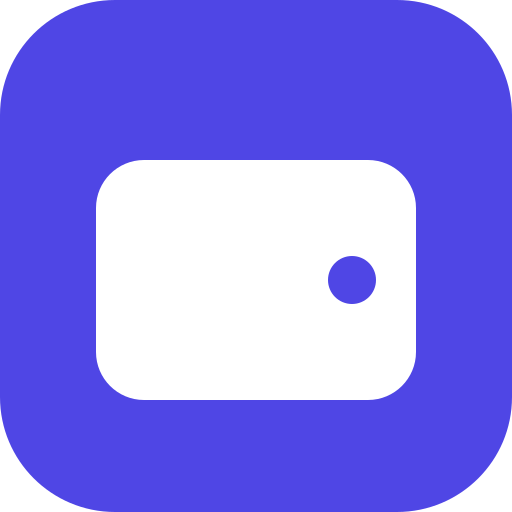
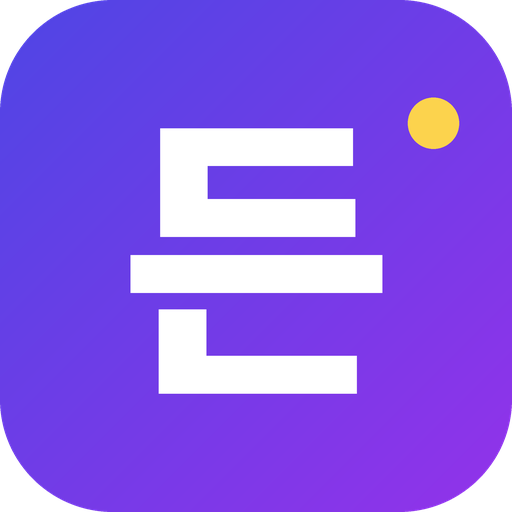
v9.0: 앱 이름 '든든' + 새 아이콘 (#58)
Claude-Session: https://claude.ai/code/session_01PNPrdFGUuSpMegbgNQuk3L

diff --git a/index.html b/index.html
@@ -10,7 +10,7 @@
   <meta name="mobile-web-app-capable" content="yes">
   <meta name="apple-mobile-web-app-capable" content="yes">
   <meta name="apple-mobile-web-app-status-bar-style" content="default">
-  <meta name="apple-mobile-web-app-title" content="아르곤 자산관리">
+  <meta name="apple-mobile-web-app-title" content="든든">
   <script src="pwa.js" defer></script>
   <script>
     // 폰(또는 설치한 앱)에서 새로 열면 ☀ 오늘 화면부터 (오늘 화면에서 끌 수 있음). 메뉴로 들어온 건 그대로.
@@ -22,7 +22,7 @@
     } catch (e) {}
   </script>
   <script src="sync.js" defer></script>
-  <title>아르곤 자산관리 Pro v8.9</title>
+  <title>든든 · 가계부 v9.0</title>
   <script src="https://cdn.tailwindcss.com"></script>
   <script src="https://cdn.jsdelivr.net/npm/chart.js"></script>
   <link rel="stylesheet" href="https://cdn.jsdelivr.net/gh/orioncactus/pretendard/dist/web/static/pretendard.css">
@@ -69,7 +69,7 @@
 <body class="text-slate-800 select-none">
   <div id="sideNavBackdrop" onclick="closeSideNav()" class="fixed inset-0 bg-slate-900/40 z-40"></div>
   <nav id="sideNav" aria-label="페이지 이동" class="fixed top-0 left-0 bottom-0 w-64 max-w-[80vw] bg-white border-r border-slate-200 z-50 p-4 flex flex-col gap-1 shadow-xl" style="padding-top: max(1rem, env(safe-area-inset-top));">
-    <div class="flex items-center justify-between mb-3"><p class="text-sm font-extrabold text-slate-900">💎 아르곤 자산관리</p><button type="button" onclick="closeSideNav()" class="text-slate-400 text-lg font-bold px-2" aria-label="메뉴 닫기">✕</button></div>
+    <div class="flex items-center justify-between mb-3"><p class="text-sm font-extrabold text-slate-900">💛 든든</p><button type="button" onclick="closeSideNav()" class="text-slate-400 text-lg font-bold px-2" aria-label="메뉴 닫기">✕</button></div>
     <a href="./today.html" class="nav-item flex items-center gap-2 px-3 py-2.5 rounded-xl text-sm font-bold text-slate-700 hover:bg-slate-100">☀ <span>오늘</span></a>
     <a href="./" class="nav-item active flex items-center gap-2 px-3 py-2.5 rounded-xl text-sm font-bold">📒 <span>가계부</span></a>
     <a href="./tax.html" class="nav-item flex items-center gap-2 px-3 py-2.5 rounded-xl text-sm font-bold text-slate-700 hover:bg-slate-100">🧾 <span>연말정산</span></a>
@@ -115,7 +115,7 @@
               <p class="px-2.5 py-1 text-[10px] font-extrabold text-slate-400 uppercase">테마 및 가이드</p>
               <button type="button" onclick="toggleDarkMode()" class="w-full text-left px-3 py-2 rounded-xl text-xs font-bold text-slate-700 dark:text-slate-200 hover:bg-indigo-50 dark:hover:bg-slate-700 flex items-center justify-between"><span id="darkModeMenuText">🌙 다크 모드 켜기</span><span class="text-[10px] bg-slate-200 dark:bg-slate-700 px-1.5 py-0.5 rounded font-extrabold">Theme</span></button>
               <button type="button" onclick="openGalaxyAutoModal()" class="w-full text-left px-3 py-2 rounded-xl text-xs font-semibold text-slate-600 dark:text-slate-300 hover:bg-slate-100 dark:hover:bg-slate-700 flex items-center justify-between"><span>🤖 갤럭시 문자 자동화 가이드</span><span class="text-[10px] text-blue-600 font-bold">TIP</span></button>
-              <button type="button" onclick="openReleaseModal()" class="w-full text-left px-3 py-2 rounded-xl text-xs font-semibold text-slate-600 dark:text-slate-300 hover:bg-slate-100 dark:hover:bg-slate-700 flex items-center justify-between"><span>🆕 버전별 업데이트 노트</span><span class="text-[10px] bg-purple-100 text-purple-700 px-1.5 py-0.5 rounded-full font-bold">v8.9</span></button>
+              <button type="button" onclick="openReleaseModal()" class="w-full text-left px-3 py-2 rounded-xl text-xs font-semibold text-slate-600 dark:text-slate-300 hover:bg-slate-100 dark:hover:bg-slate-700 flex items-center justify-between"><span>🆕 버전별 업데이트 노트</span><span class="text-[10px] bg-purple-100 text-purple-700 px-1.5 py-0.5 rounded-full font-bold">v9.0</span></button>
             </div>
             <div class="px-2 pt-1.5 pb-0.5">
               <button type="button" onclick="resetData()" class="w-full text-left px-3 py-2 rounded-xl text-xs font-bold text-rose-600 hover:bg-rose-50 flex items-center justify-between"><span>🗑 전체 가계부 초기화</span><span class="text-[10px] text-rose-400">주의</span></button>
@@ -445,7 +445,7 @@
     <div class="bg-white dark:bg-slate-800 rounded-2xl max-w-lg w-full p-5 sm:p-6 shadow-xl space-y-4 max-h-[90vh] flex flex-col">
       <div class="flex justify-between items-center border-b border-slate-100 pb-3"><h3 class="text-base font-extrabold">🚀 버전별 주요 업데이트 노트</h3><button onclick="closeReleaseModal()" class="text-slate-400 text-lg font-bold px-2">✕</button></div>
       <div id="releaseNotesContainer" class="space-y-4 overflow-y-auto pr-1 flex-1"></div>
-      <div class="pt-3 border-t border-slate-100 flex justify-between items-center"><span class="text-xs text-slate-400">현재 버전: <b class="text-indigo-600">Pro v8.9</b></span><button onclick="closeReleaseModal()" class="px-5 py-2 rounded-xl bg-indigo-600 text-white text-xs font-bold">확인했어요!</button></div>
+      <div class="pt-3 border-t border-slate-100 flex justify-between items-center"><span class="text-xs text-slate-400">현재 버전: <b class="text-indigo-600">든든 v9.0</b></span><button onclick="closeReleaseModal()" class="px-5 py-2 rounded-xl bg-indigo-600 text-white text-xs font-bold">확인했어요!</button></div>
     </div>
   </div>
 
@@ -486,9 +486,14 @@
   <div id="toast" class="fixed bottom-6 left-1/2 -translate-x-1/2 bg-slate-900 text-white text-xs md:text-sm font-bold px-5 py-3 rounded-full shadow-lg opacity-0 pointer-events-none transition-all duration-300 z-50 whitespace-nowrap">알림</div>
 
   <script>
-    const APP_VERSION = '8.9';
+    const APP_VERSION = '9.0';
     const releaseNotesData = [
-      { version: 'Pro v8.9', date: '2026.11.23 (최신)', badge: '메뉴 정리', isLatest: true, items: [
+      { version: 'v9.0', date: '2026.11.23 (최신)', badge: '든든 💛', isLatest: true, items: [
+        '💛 앱 이름이 <b>든든</b>으로 바뀌었어요 — 돈·출퇴근·점심·D-Day·영어까지 하루를 든든하게',
+        '🎨 새 앱 아이콘 ("든"). 홈 화면 아이콘은 안드로이드는 며칠 안에 자동으로, 아이폰은 다시 추가하면 바뀌어요',
+        '💾 저장된 데이터·동기화는 그대로예요'
+      ] },
+      { version: 'Pro v8.9', date: '2026.11.23', badge: '메뉴 정리', isLatest: false, items: [
         '📒 가계부 화면 제목을 "가계부"로, 위쪽 버전 배지는 정리',
         '🆕 <b>버전·업데이트 노트</b>는 어느 화면에서든 왼쪽 메뉴 맨 아래에서 (새 버전이면 노란 점)'
       ] },
@@ -1356,7 +1361,7 @@
     
     function downloadBackupFile() { 
       const b = new Blob([JSON.stringify({ app: 'ArgonLedgerPro', version: APP_VERSION, categoryBudgets, fixedExpenses, smsTemplates, cardPerfs, watchlist: readWatchlist(), accounts: readLS('argon_accounts_v1'), netWorth: readLS('argon_networth_v1'), goals: readLS('argon_goals_v1'), transactions, changeLogs }, null, 2)], { type: 'application/json' }); 
-      const a = document.createElement('a'); a.href = URL.createObjectURL(b); a.download = `아르곤자산관리_백업_${today}.json`; a.click(); 
+      const a = document.createElement('a'); a.href = URL.createObjectURL(b); a.download = `든든_백업_${today}.json`; a.click(); 
     }
     
     function handleBackupFileUpload(e) { const f = e.target.files[0]; if (!f) return; const r = new FileReader(); r.onload = ev => applyBackupData(ev.target.result); r.readAsText(f); }
@@ -1572,7 +1577,7 @@
     function clearCategoryFilter() { document.getElementById('categoryFilter').value = 'ALL'; render(); }
     function clearListFilters() { document.getElementById('categoryFilter').value = 'ALL'; document.getElementById('cardFilter').value = 'ALL'; document.getElementById('searchInput').value = ''; render(); }
     function resetData() { closeHeaderMenu(); if (confirm('모든 거래 내역을 초기화하시겠습니까?')) { transactions = []; saveAndRender(); } }
-    function exportCSV() { closeHeaderMenu(); if (!transactions.length) return alert('내역이 없습니다.'); let c = '\uFEFF날짜,구분,카테고리,결제수단,카드사,사용처,내용,금액\n'; transactions.forEach(t => c += `${t.date},${t.type === 'income' ? '수입' : '지출'},${t.category},${t.method},${t.cardCompany},"${t.merchant}","${t.memo}",${t.amount}\n`); const a = document.createElement('a'); a.href = URL.createObjectURL(new Blob([c], { type: 'text/csv;charset=utf-8;' })); a.download = `아르곤자산관리_가계부_${document.getElementById('monthFilter').value}.csv`; a.click(); }
+    function exportCSV() { closeHeaderMenu(); if (!transactions.length) return alert('내역이 없습니다.'); let c = '\uFEFF날짜,구분,카테고리,결제수단,카드사,사용처,내용,금액\n'; transactions.forEach(t => c += `${t.date},${t.type === 'income' ? '수입' : '지출'},${t.category},${t.method},${t.cardCompany},"${t.merchant}","${t.memo}",${t.amount}\n`); const a = document.createElement('a'); a.href = URL.createObjectURL(new Blob([c], { type: 'text/csv;charset=utf-8;' })); a.download = `든든_가계부_${document.getElementById('monthFilter').value}.csv`; a.click(); }
 
     document.getElementById('monthFilter').addEventListener('change', () => { exitEditMode(); render(); });
     document.getElementById('txDate').value = today; document.getElementById('monthFilter').value = currentYearMonth;

diff --git a/subway.html b/subway.html
@@ -10,12 +10,12 @@
   <meta name="mobile-web-app-capable" content="yes">
   <meta name="apple-mobile-web-app-capable" content="yes">
   <meta name="apple-mobile-web-app-status-bar-style" content="default">
-  <meta name="apple-mobile-web-app-title" content="아르곤 자산관리">
+  <meta name="apple-mobile-web-app-title" content="든든">
   <script src="pwa.js" defer></script>
   <script src="sync.js" defer></script>
   <script src="tt.js"></script>
   <script src="commute.js"></script>
-  <title>지하철 · 아르곤 자산관리</title>
+  <title>지하철 · 든든</title>
   <script>
     // 가계부와 같은 다크 모드 설정을 첫 화면부터 적용
     try { if (localStorage.getItem('argon_dark_mode') === 'true') document.documentElement.classList.add('dark'); } catch (e) {}
@@ -86,7 +86,7 @@
   <!-- 사이드 메뉴 (가계부와 동일) -->
   <div id="sideNavBackdrop" onclick="closeSideNav()" class="fixed inset-0 bg-slate-900/40 z-40"></div>
   <nav id="sideNav" aria-label="페이지 이동" class="fixed top-0 left-0 bottom-0 w-64 max-w-[80vw] bg-white border-r border-slate-200 z-50 p-4 flex flex-col gap-1 shadow-xl" style="padding-top: max(1rem, env(safe-area-inset-top));">
-    <div class="flex items-center justify-between mb-3"><p class="text-sm font-extrabold text-slate-900">💎 아르곤 자산관리</p><button type="button" onclick="closeSideNav()" class="text-slate-400 text-lg font-bold px-2" aria-label="메뉴 닫기">✕</button></div>
+    <div class="flex items-center justify-between mb-3"><p class="text-sm font-extrabold text-slate-900">💛 든든</p><button type="button" onclick="closeSideNav()" class="text-slate-400 text-lg font-bold px-2" aria-label="메뉴 닫기">✕</button></div>
     <a href="./today.html" class="nav-item flex items-center gap-2 px-3 py-2.5 rounded-xl text-sm font-bold text-slate-700 hover:bg-slate-100">☀ <span>오늘</span></a>
     <a href="./" class="nav-item flex items-center gap-2 px-3 py-2.5 rounded-xl text-sm font-bold text-slate-700 hover:bg-slate-100">📒 <span>가계부</span></a>
     <a href="./tax.html" class="nav-item flex items-center gap-2 px-3 py-2.5 rounded-xl text-sm font-bold text-slate-700 hover:bg-slate-100">🧾 <span>연말정산</span></a>

diff --git a/english.html b/english.html
@@ -10,10 +10,10 @@
   <meta name="mobile-web-app-capable" content="yes">
   <meta name="apple-mobile-web-app-capable" content="yes">
   <meta name="apple-mobile-web-app-status-bar-style" content="default">
-  <meta name="apple-mobile-web-app-title" content="아르곤 자산관리">
+  <meta name="apple-mobile-web-app-title" content="든든">
   <script src="pwa.js" defer></script>
   <script src="sync.js" defer></script>
-  <title>여행 영어 · 아르곤 자산관리</title>
+  <title>여행 영어 · 든든</title>
   <script>
     // 가계부와 같은 다크 모드 설정을 첫 화면부터 적용
     try { if (localStorage.getItem('argon_dark_mode') === 'true') document.documentElement.classList.add('dark'); } catch (e) {}
@@ -83,7 +83,7 @@
   <!-- 사이드 메뉴 (가계부와 동일) -->
   <div id="sideNavBackdrop" onclick="closeSideNav()" class="fixed inset-0 bg-slate-900/40 z-40"></div>
   <nav id="sideNav" aria-label="페이지 이동" class="fixed top-0 left-0 bottom-0 w-64 max-w-[80vw] bg-white border-r border-slate-200 z-50 p-4 flex flex-col gap-1 shadow-xl" style="padding-top: max(1rem, env(safe-area-inset-top));">
-    <div class="flex items-center justify-between mb-3"><p class="text-sm font-extrabold text-slate-900">💎 아르곤 자산관리</p><button type="button" onclick="closeSideNav()" class="text-slate-400 text-lg font-bold px-2" aria-label="메뉴 닫기">✕</button></div>
+    <div class="flex items-center justify-between mb-3"><p class="text-sm font-extrabold text-slate-900">💛 든든</p><button type="button" onclick="closeSideNav()" class="text-slate-400 text-lg font-bold px-2" aria-label="메뉴 닫기">✕</button></div>
     <a href="./today.html" class="nav-item flex items-center gap-2 px-3 py-2.5 rounded-xl text-sm font-bold text-slate-700 hover:bg-slate-100">☀ <span>오늘</span></a>
     <a href="./" class="nav-item flex items-center gap-2 px-3 py-2.5 rounded-xl text-sm font-bold text-slate-700 hover:bg-slate-100">📒 <span>가계부</span></a>
     <a href="./tax.html" class="nav-item flex items-center gap-2 px-3 py-2.5 rounded-xl text-sm font-bold text-slate-700 hover:bg-slate-100">🧾 <span>연말정산</span></a>

diff --git a/lotto.html b/lotto.html
@@ -10,10 +10,10 @@
   <meta name="mobile-web-app-capable" content="yes">
   <meta name="apple-mobile-web-app-capable" content="yes">
   <meta name="apple-mobile-web-app-status-bar-style" content="default">
-  <meta name="apple-mobile-web-app-title" content="아르곤 자산관리">
+  <meta name="apple-mobile-web-app-title" content="든든">
   <script src="pwa.js" defer></script>
   <script src="sync.js" defer></script>
-  <title>로또 번호 · 아르곤 자산관리</title>
+  <title>로또 번호 · 든든</title>
   <script>
     // 가계부와 같은 다크 모드 설정을 첫 화면부터 적용
     try { if (localStorage.getItem('argon_dark_mode') === 'true') document.documentElement.classList.add('dark'); } catch (e) {}
@@ -91,7 +91,7 @@
   <!-- 사이드 메뉴 (가계부와 동일) -->
   <div id="sideNavBackdrop" onclick="closeSideNav()" class="fixed inset-0 bg-slate-900/40 z-40"></div>
   <nav id="sideNav" aria-label="페이지 이동" class="fixed top-0 left-0 bottom-0 w-64 max-w-[80vw] bg-white border-r border-slate-200 z-50 p-4 flex flex-col gap-1 shadow-xl" style="padding-top: max(1rem, env(safe-area-inset-top));">
-    <div class="flex items-center justify-between mb-3"><p class="text-sm font-extrabold text-slate-900">💎 아르곤 자산관리</p><button type="button" onclick="closeSideNav()" class="text-slate-400 text-lg font-bold px-2" aria-label="메뉴 닫기">✕</button></div>
+    <div class="flex items-center justify-between mb-3"><p class="text-sm font-extrabold text-slate-900">💛 든든</p><button type="button" onclick="closeSideNav()" class="text-slate-400 text-lg font-bold px-2" aria-label="메뉴 닫기">✕</button></div>
     <a href="./today.html" class="nav-item flex items-center gap-2 px-3 py-2.5 rounded-xl text-sm font-bold text-slate-700 hover:bg-slate-100">☀ <span>오늘</span></a>
     <a href="./" class="nav-item flex items-center gap-2 px-3 py-2.5 rounded-xl text-sm font-bold text-slate-700 hover:bg-slate-100">📒 <span>가계부</span></a>
     <a href="./tax.html" class="nav-item flex items-center gap-2 px-3 py-2.5 rounded-xl text-sm font-bold text-slate-700 hover:bg-slate-100">🧾 <span>연말정산</span></a>

diff --git a/lunch.html b/lunch.html
@@ -10,10 +10,10 @@
   <meta name="mobile-web-app-capable" content="yes">
   <meta name="apple-mobile-web-app-capable" content="yes">
   <meta name="apple-mobile-web-app-status-bar-style" content="default">
-  <meta name="apple-mobile-web-app-title" content="아르곤 자산관리">
+  <meta name="apple-mobile-web-app-title" content="든든">
   <script src="pwa.js" defer></script>
   <script src="sync.js" defer></script>
-  <title>점심 룰렛 · 아르곤 자산관리</title>
+  <title>점심 룰렛 · 든든</title>
   <script>
     // 가계부와 같은 다크 모드 설정을 첫 화면부터 적용
     try { if (localStorage.getItem('argon_dark_mode') === 'true') document.documentElement.classList.add('dark'); } catch (e) {}
@@ -83,7 +83,7 @@
   <!-- 사이드 메뉴 (가계부와 동일) -->
   <div id="sideNavBackdrop" onclick="closeSideNav()" class="fixed inset-0 bg-slate-900/40 z-40"></div>
   <nav id="sideNav" aria-label="페이지 이동" class="fixed top-0 left-0 bottom-0 w-64 max-w-[80vw] bg-white border-r border-slate-200 z-50 p-4 flex flex-col gap-1 shadow-xl" style="padding-top: max(1rem, env(safe-area-inset-top));">
-    <div class="flex items-center justify-between mb-3"><p class="text-sm font-extrabold text-slate-900">💎 아르곤 자산관리</p><button type="button" onclick="closeSideNav()" class="text-slate-400 text-lg font-bold px-2" aria-label="메뉴 닫기">✕</button></div>
+    <div class="flex items-center justify-between mb-3"><p class="text-sm font-extrabold text-slate-900">💛 든든</p><button type="button" onclick="closeSideNav()" class="text-slate-400 text-lg font-bold px-2" aria-label="메뉴 닫기">✕</button></div>
     <a href="./today.html" class="nav-item flex items-center gap-2 px-3 py-2.5 rounded-xl text-sm font-bold text-slate-700 hover:bg-slate-100">☀ <span>오늘</span></a>
     <a href="./" class="nav-item flex items-center gap-2 px-3 py-2.5 rounded-xl text-sm font-bold text-slate-700 hover:bg-slate-100">📒 <span>가계부</span></a>
     <a href="./tax.html" class="nav-item flex items-center gap-2 px-3 py-2.5 rounded-xl text-sm font-bold text-slate-700 hover:bg-slate-100">🧾 <span>연말정산</span></a>

diff --git a/stocks.html b/stocks.html
@@ -10,10 +10,10 @@
   <meta name="mobile-web-app-capable" content="yes">
   <meta name="apple-mobile-web-app-capable" content="yes">
   <meta name="apple-mobile-web-app-status-bar-style" content="default">
-  <meta name="apple-mobile-web-app-title" content="아르곤 자산관리">
+  <meta name="apple-mobile-web-app-title" content="든든">
   <script src="pwa.js" defer></script>
   <script src="sync.js" defer></script>
-  <title>주식 현황 · 아르곤 자산관리</title>
+  <title>주식 현황 · 든든</title>
   <script>
     // 가계부와 같은 다크 모드 설정을 첫 화면부터 적용
     try { if (localStorage.getItem('argon_dark_mode') === 'true') document.documentElement.classList.add('dark'); } catch (e) {}
@@ -82,7 +82,7 @@
   <!-- 사이드 메뉴 (가계부와 동일) -->
   <div id="sideNavBackdrop" onclick="closeSideNav()" class="fixed inset-0 bg-slate-900/40 z-40"></div>
   <nav id="sideNav" aria-label="페이지 이동" class="fixed top-0 left-0 bottom-0 w-64 max-w-[80vw] bg-white border-r border-slate-200 z-50 p-4 flex flex-col gap-1 shadow-xl" style="padding-top: max(1rem, env(safe-area-inset-top));">
-    <div class="flex items-center justify-between mb-3"><p class="text-sm font-extrabold text-slate-900">💎 아르곤 자산관리</p><button type="button" onclick="closeSideNav()" class="text-slate-400 text-lg font-bold px-2" aria-label="메뉴 닫기">✕</button></div>
+    <div class="flex items-center justify-between mb-3"><p class="text-sm font-extrabold text-slate-900">💛 든든</p><button type="button" onclick="closeSideNav()" class="text-slate-400 text-lg font-bold px-2" aria-label="메뉴 닫기">✕</button></div>
     <a href="./today.html" class="nav-item flex items-center gap-2 px-3 py-2.5 rounded-xl text-sm font-bold text-slate-700 hover:bg-slate-100">☀ <span>오늘</span></a>
     <a href="./" class="nav-item flex items-center gap-2 px-3 py-2.5 rounded-xl text-sm font-bold text-slate-700 hover:bg-slate-100">📒 <span>가계부</span></a>
     <a href="./tax.html" class="nav-item flex items-center gap-2 px-3 py-2.5 rounded-xl text-sm font-bold text-slate-700 hover:bg-slate-100">🧾 <span>연말정산</span></a>

diff --git a/assets.html b/assets.html
@@ -10,10 +10,10 @@
   <meta name="mobile-web-app-capable" content="yes">
   <meta name="apple-mobile-web-app-capable" content="yes">
   <meta name="apple-mobile-web-app-status-bar-style" content="default">
-  <meta name="apple-mobile-web-app-title" content="아르곤 자산관리">
+  <meta name="apple-mobile-web-app-title" content="든든">
   <script src="pwa.js" defer></script>
   <script src="sync.js" defer></script>
-  <title>내 자산 · 아르곤 자산관리</title>
+  <title>내 자산 · 든든</title>
   <script>
     // 가계부와 같은 다크 모드 설정을 첫 화면부터 적용
     try { if (localStorage.getItem('argon_dark_mode') === 'true') document.documentElement.classList.add('dark'); } catch (e) {}
@@ -82,7 +82,7 @@
   <!-- 사이드 메뉴 (가계부와 동일) -->
   <div id="sideNavBackdrop" onclick="closeSideNav()" class="fixed inset-0 bg-slate-900/40 z-40"></div>
   <nav id="sideNav" aria-label="페이지 이동" class="fixed top-0 left-0 bottom-0 w-64 max-w-[80vw] bg-white border-r border-slate-200 z-50 p-4 flex flex-col gap-1 shadow-xl" style="padding-top: max(1rem, env(safe-area-inset-top));">
-    <div class="flex items-center justify-between mb-3"><p class="text-sm font-extrabold text-slate-900">💎 아르곤 자산관리</p><button type="button" onclick="closeSideNav()" class="text-slate-400 text-lg font-bold px-2" aria-label="메뉴 닫기">✕</button></div>
+    <div class="flex items-center justify-between mb-3"><p class="text-sm font-extrabold text-slate-900">💛 든든</p><button type="button" onclick="closeSideNav()" class="text-slate-400 text-lg font-bold px-2" aria-label="메뉴 닫기">✕</button></div>
     <a href="./today.html" class="nav-item flex items-center gap-2 px-3 py-2.5 rounded-xl text-sm font-bold text-slate-700 hover:bg-slate-100">☀ <span>오늘</span></a>
     <a href="./" class="nav-item flex items-center gap-2 px-3 py-2.5 rounded-xl text-sm font-bold text-slate-700 hover:bg-slate-100">📒 <span>가계부</span></a>
     <a href="./tax.html" class="nav-item flex items-center gap-2 px-3 py-2.5 rounded-xl text-sm font-bold text-slate-700 hover:bg-slate-100">🧾 <span>연말정산</span></a>

diff --git a/dday.html b/dday.html
@@ -10,10 +10,10 @@
   <meta name="mobile-web-app-capable" content="yes">
   <meta name="apple-mobile-web-app-capable" content="yes">
   <meta name="apple-mobile-web-app-status-bar-style" content="default">
-  <meta name="apple-mobile-web-app-title" content="아르곤 자산관리">
+  <meta name="apple-mobile-web-app-title" content="든든">
   <script src="pwa.js" defer></script>
   <script src="sync.js" defer></script>
-  <title>D-Day · 아르곤 자산관리</title>
+  <title>D-Day · 든든</title>
   <script>
     // 가계부와 같은 다크 모드 설정을 첫 화면부터 적용
     try { if (localStorage.getItem('argon_dark_mode') === 'true') document.documentElement.classList.add('dark'); } catch (e) {}
@@ -83,7 +83,7 @@
   <!-- 사이드 메뉴 (가계부와 동일) -->
   <div id="sideNavBackdrop" onclick="closeSideNav()" class="fixed inset-0 bg-slate-900/40 z-40"></div>
   <nav id="sideNav" aria-label="페이지 이동" class="fixed top-0 left-0 bottom-0 w-64 max-w-[80vw] bg-white border-r border-slate-200 z-50 p-4 flex flex-col gap-1 shadow-xl" style="padding-top: max(1rem, env(safe-area-inset-top));">
-    <div class="flex items-center justify-between mb-3"><p class="text-sm font-extrabold text-slate-900">💎 아르곤 자산관리</p><button type="button" onclick="closeSideNav()" class="text-slate-400 text-lg font-bold px-2" aria-label="메뉴 닫기">✕</button></div>
+    <div class="flex items-center justify-between mb-3"><p class="text-sm font-extrabold text-slate-900">💛 든든</p><button type="button" onclick="closeSideNav()" class="text-slate-400 text-lg font-bold px-2" aria-label="메뉴 닫기">✕</button></div>
     <a href="./today.html" class="nav-item flex items-center gap-2 px-3 py-2.5 rounded-xl text-sm font-bold text-slate-700 hover:bg-slate-100">☀ <span>오늘</span></a>
     <a href="./" class="nav-item flex items-center gap-2 px-3 py-2.5 rounded-xl text-sm font-bold text-slate-700 hover:bg-slate-100">📒 <span>가계부</span></a>
     <a href="./tax.html" class="nav-item flex items-center gap-2 px-3 py-2.5 rounded-xl text-sm font-bold text-slate-700 hover:bg-slate-100">🧾 <span>연말정산</span></a>

diff --git a/tax.html b/tax.html
@@ -10,10 +10,10 @@
   <meta name="mobile-web-app-capable" content="yes">
   <meta name="apple-mobile-web-app-capable" content="yes">
   <meta name="apple-mobile-web-app-status-bar-style" content="default">
-  <meta name="apple-mobile-web-app-title" content="아르곤 자산관리">
+  <meta name="apple-mobile-web-app-title" content="든든">
   <script src="pwa.js" defer></script>
   <script src="sync.js" defer></script>
-  <title>연말정산 · 아르곤 자산관리</title>
+  <title>연말정산 · 든든</title>
   <script>
     // 가계부와 같은 다크 모드 설정을 첫 화면부터 적용
     try { if (localStorage.getItem('argon_dark_mode') === 'true') document.documentElement.classList.add('dark'); } catch (e) {}
@@ -82,7 +82,7 @@
   <!-- 사이드 메뉴 (가계부와 동일) -->
   <div id="sideNavBackdrop" onclick="closeSideNav()" class="fixed inset-0 bg-slate-900/40 z-40"></div>
   <nav id="sideNav" aria-label="페이지 이동" class="fixed top-0 left-0 bottom-0 w-64 max-w-[80vw] bg-white border-r border-slate-200 z-50 p-4 flex flex-col gap-1 shadow-xl" style="padding-top: max(1rem, env(safe-area-inset-top));">
-    <div class="flex items-center justify-between mb-3"><p class="text-sm font-extrabold text-slate-900">💎 아르곤 자산관리</p><button type="button" onclick="closeSideNav()" class="text-slate-400 text-lg font-bold px-2" aria-label="메뉴 닫기">✕</button></div>
+    <div class="flex items-center justify-between mb-3"><p class="text-sm font-extrabold text-slate-900">💛 든든</p><button type="button" onclick="closeSideNav()" class="text-slate-400 text-lg font-bold px-2" aria-label="메뉴 닫기">✕</button></div>
     <a href="./today.html" class="nav-item flex items-center gap-2 px-3 py-2.5 rounded-xl text-sm font-bold text-slate-700 hover:bg-slate-100">☀ <span>오늘</span></a>
     <a href="./" class="nav-item flex items-center gap-2 px-3 py-2.5 rounded-xl text-sm font-bold text-slate-700 hover:bg-slate-100">📒 <span>가계부</span></a>
     <a href="./tax.html" class="nav-item active flex items-center gap-2 px-3 py-2.5 rounded-xl text-sm font-bold">🧾 <span>연말정산</span></a>

diff --git a/today.html b/today.html
@@ -10,10 +10,10 @@
   <meta name="mobile-web-app-capable" content="yes">
   <meta name="apple-mobile-web-app-capable" content="yes">
   <meta name="apple-mobile-web-app-status-bar-style" content="default">
-  <meta name="apple-mobile-web-app-title" content="아르곤 자산관리">
+  <meta name="apple-mobile-web-app-title" content="든든">
   <script src="pwa.js" defer></script>
   <script src="sync.js" defer></script>
-  <title>오늘 · 아르곤 자산관리</title>
+  <title>오늘 · 든든</title>
   <script>
     // 가계부와 같은 다크 모드 설정을 첫 화면부터 적용
     try { if (localStorage.getItem('argon_dark_mode') === 'true') document.documentElement.classList.add('dark'); } catch (e) {}
@@ -82,7 +82,7 @@
   <!-- 사이드 메뉴 (가계부와 동일) -->
   <div id="sideNavBackdrop" onclick="closeSideNav()" class="fixed inset-0 bg-slate-900/40 z-40"></div>
   <nav id="sideNav" aria-label="페이지 이동" class="fixed top-0 left-0 bottom-0 w-64 max-w-[80vw] bg-white border-r border-slate-200 z-50 p-4 flex flex-col gap-1 shadow-xl" style="padding-top: max(1rem, env(safe-area-inset-top));">
-    <div class="flex items-center justify-between mb-3"><p class="text-sm font-extrabold text-slate-900">💎 아르곤 자산관리</p><button type="button" onclick="closeSideNav()" class="text-slate-400 text-lg font-bold px-2" aria-label="메뉴 닫기">✕</button></div>
+    <div class="flex items-center justify-between mb-3"><p class="text-sm font-extrabold text-slate-900">💛 든든</p><button type="button" onclick="closeSideNav()" class="text-slate-400 text-lg font-bold px-2" aria-label="메뉴 닫기">✕</button></div>
     <a href="./today.html" class="nav-item active flex items-center gap-2 px-3 py-2.5 rounded-xl text-sm font-bold">☀ <span>오늘</span></a>
     <a href="./" class="nav-item flex items-center gap-2 px-3 py-2.5 rounded-xl text-sm font-bold text-slate-700 hover:bg-slate-100">📒 <span>가계부</span></a>
     <a href="./tax.html" class="nav-item flex items-center gap-2 px-3 py-2.5 rounded-xl text-sm font-bold text-slate-700 hover:bg-slate-100">🧾 <span>연말정산</span></a>

diff --git a/sw.js b/sw.js
@@ -1,7 +1,7 @@
-// 아르곤 자산관리 서비스 워커: 홈 화면 앱 설치 + 오프라인일 때 마지막 화면 보여주기
+// 든든 서비스 워커: 홈 화면 앱 설치 + 오프라인일 때 마지막 화면 보여주기
 // 항상 네트워크를 먼저 쓰고(최신 버전 유지), 안 될 때만 저장해 둔 화면을 꺼낸다.
 // 시세 API(/api/)와 외부 사이트 요청은 건드리지 않는다.
-const CACHE = 'argon-shell-v14';
+const CACHE = 'argon-shell-v15';
 const CDN = ['cdn.tailwindcss.com', 'cdn.jsdelivr.net'];
 const SHELL = ['./', './index.html', './stocks.html', './assets.html', './lotto.html', './subway.html', './today.html', './lunch.html', './dday.html', './english.html', './english-deck.js', './tax.html', './tax-calc.js', './tt.js', './theme.css', './commute.js', './pwa.js', './sync.js', './manifest.json', './icons/icon-192.png'];
 

diff --git a/tax-calc.js b/tax-calc.js
@@ -1,4 +1,4 @@
-// 아르곤 자산관리: 신용카드 등 소득공제 미리보기 계산 (2026년 귀속 기준, 연말정산 화면·오늘 화면이 같이 씀)
+// 든든: 신용카드 등 소득공제 미리보기 계산 (2026년 귀속 기준, 연말정산 화면·오늘 화면이 같이 씀)
 // 가계부 기록(argon_tx_v3)으로 대략 계산한다. 실제 금액은 홈택스 간소화 자료로 확인해야 한다.
 (function () {
   const TAX_KEY = 'argon_tax_v1';
